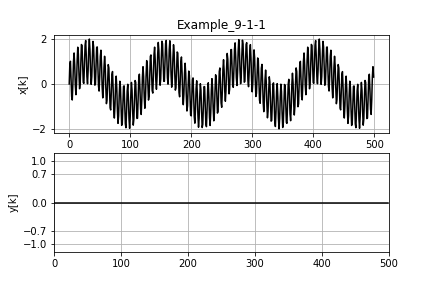
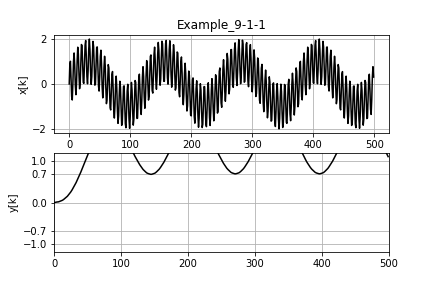
11-15-2023

diff --git a/FindFIR.py b/FindFIR.py
@@ -1,0 +1,125 @@
+""" Find_FIR.py """
+
+import matplotlib.pyplot as plt
+import numpy as np
+from scipy import signal as sig
+from math import pi, exp, cos, sin, log, sqrt
+
+NN = 100
+N2 = int(NN/2)
+x = np.zeros(NN)
+y = np.zeros(NN)
+
+dt = .002
+TT = np.linspace(0,dt*(NN-1),NN)
+DF = 1/(dt*NN)
+FF = np.linspace(0,DF*(NN-1),NN)
+
+f1 = 20
+f2 = 80
+f3 = 150
+freq1 = 2*pi*f1
+freq2 = 2*pi*f2
+freq3 = 2*pi*f3
+
+x = np.sin(freq1*TT) + 1*np.sin(freq2*TT) + 1*np.sin(freq3*TT)
+           
+plt.subplot(321)
+plt.plot(TT,x,'k')
+plt.axis([0,NN*dt,-2.5,2.5])
+plt.text(5,-15,'$\phi$ = {}'.format(round(14,3)),fontsize=12)
+plt.title('Find_FIR')
+plt.ylabel('a). x[k]')
+plt.xlabel('T (sec)')
+plt.grid()
+
+X = (1/NN)*np.fft.fft(x)
+
+""" Create the filter   """
+H = np.zeros(NN)
+
+#""" Rectangular Low pass """
+#for n in range(8):
+#    H[n] = 1
+
+""" Low pass """
+#for n in range(4):
+#    H[n] = 1
+#for n in range(4,16):
+#    H[n] =  exp(-.5*((n-4)/4)**2)
+
+""" Band pass """    
+#for n in range(N2):    
+#    H[n] =  exp(-.5*((n-16)/4)**2)
+
+""" High pass """    
+for n in range(20):
+    H[n] =  exp(-.5*((n-20)/4)**2)    
+for n in range(20,N2+2):
+    H[n] = 1
+    
+""" Reflect the positive frequencies to the right side """
+for n in range(1,N2-1):
+    H[NN-n] = H[n]  
+    
+Y = H*X   
+
+plt.subplot(322)
+plt.plot(FF,abs(X),'k',label='X')
+plt.plot(FF,H,'k--',label='H')
+plt.legend(loc='upper right')
+plt.ylabel('b). H(w),X(w)')
+plt.xlabel('Freq (Hz)')
+plt.grid()
+plt.axis([0,200,0,1.1])
+plt.xticks([20,80,150])
+
+h = np.fft.ifft(H)
+
+plt.subplot(323)
+plt.plot(h.real,'k')
+plt.xlabel('k')
+plt.ylabel('c). h[k]')
+plt.grid()
+plt.axis([0,NN,-.1,.2])
+
+M = 6
+hh = np.zeros(NN)
+
+""" Move the filter to the left side """
+for n in range(M):
+    hh[n+M] = h[n].real
+    hh[M-n] = hh[M+n]
+
+plt.subplot(324)
+plt.plot(hh,'ok')
+plt.axis([0 ,2*M,-.1,.25])
+plt.xlabel('k')
+plt.ylabel('d). hh[k]')
+plt.grid()
+
+""" Convolve hh and x """
+
+yy=np.convolve(hh,x)
+
+y = np.zeros(NN)
+for n in range(NN):
+    y[n] = yy[n+M]
+
+plt.subplot(325)
+plt.plot(TT,y,'k')
+plt.ylabel('e). y[k]')
+plt.xlabel('T (sec)')
+plt.grid()
+
+Y = (1/NN)*np.fft.fft(y)
+
+plt.subplot(326)
+plt.plot(FF,abs(Y),'k')
+plt.axis([0,200,-.1,.6])
+plt.xticks([0,20,80,150])
+plt.ylabel('f). Y[w]')
+plt.xlabel('Freq (Hz)')
+plt.grid()
+plt.savefig('f.png',dpi=300)
+plt.show()

diff --git a/Example_9_11.py b/Example_9_11.py
@@ -64,7 +64,7 @@ w2 = 100
 for k in range(1,MM):
     try:
         x[k] = 1.*sin(w1*dt*k) + sin(w2*dt*k)
-        y[k] = 0.002*x[k]+1.97*y[k-1]-0.97*[k-2]
+        y[k] = 0.002*x[k]+1.97*y[k-1]-0.97*y[k-2]
     except:
         print('woops')
 plt.subplot(211)
